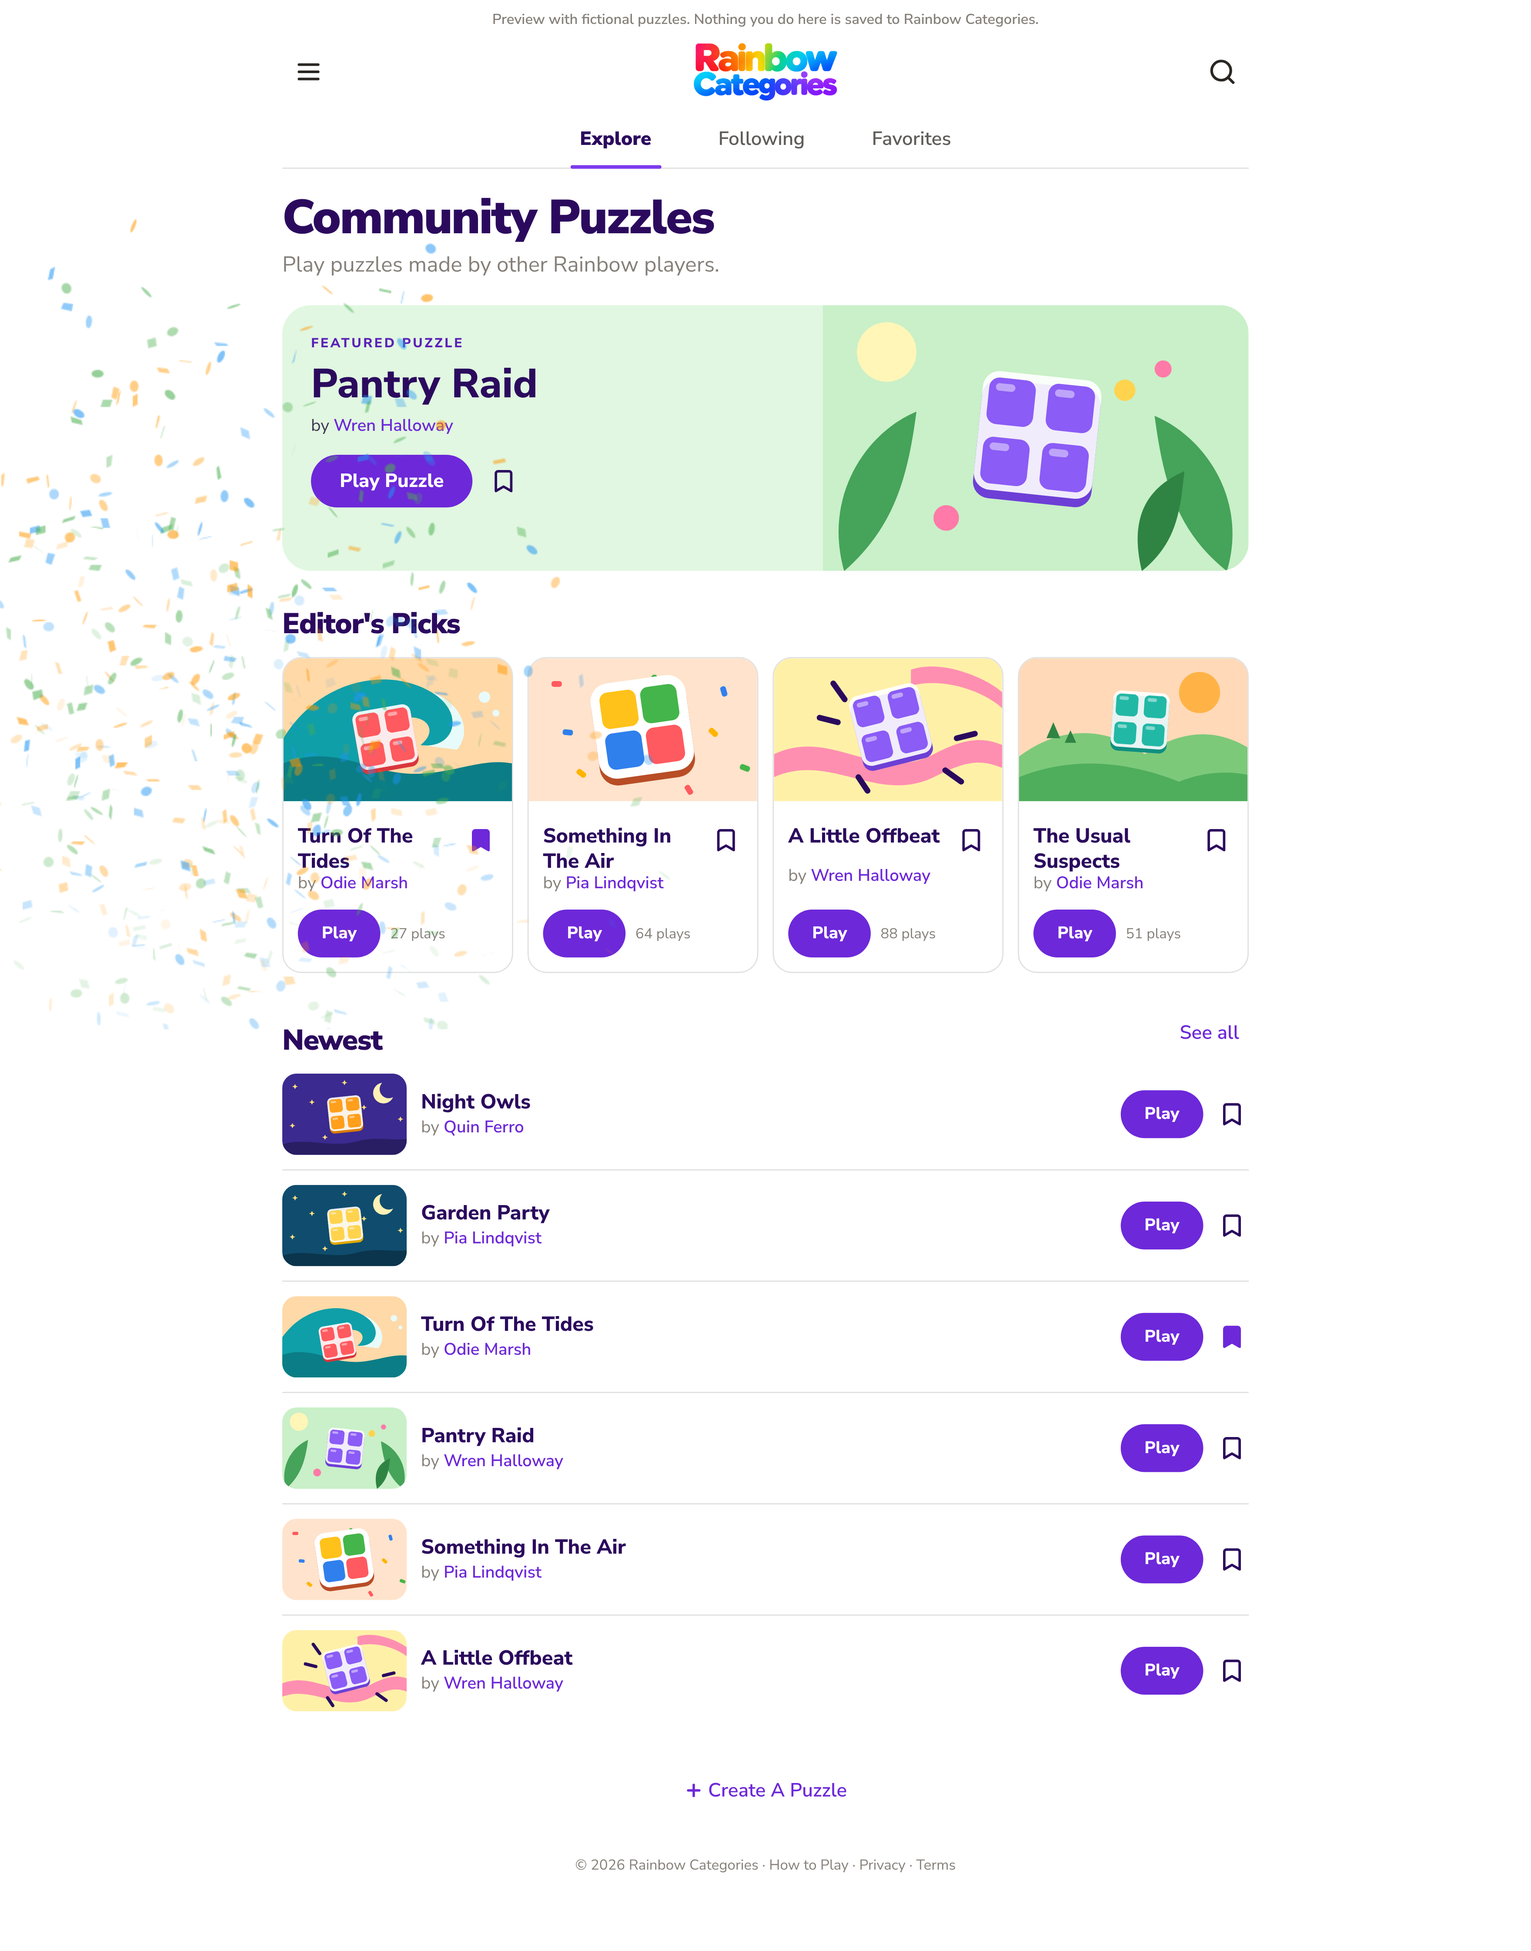
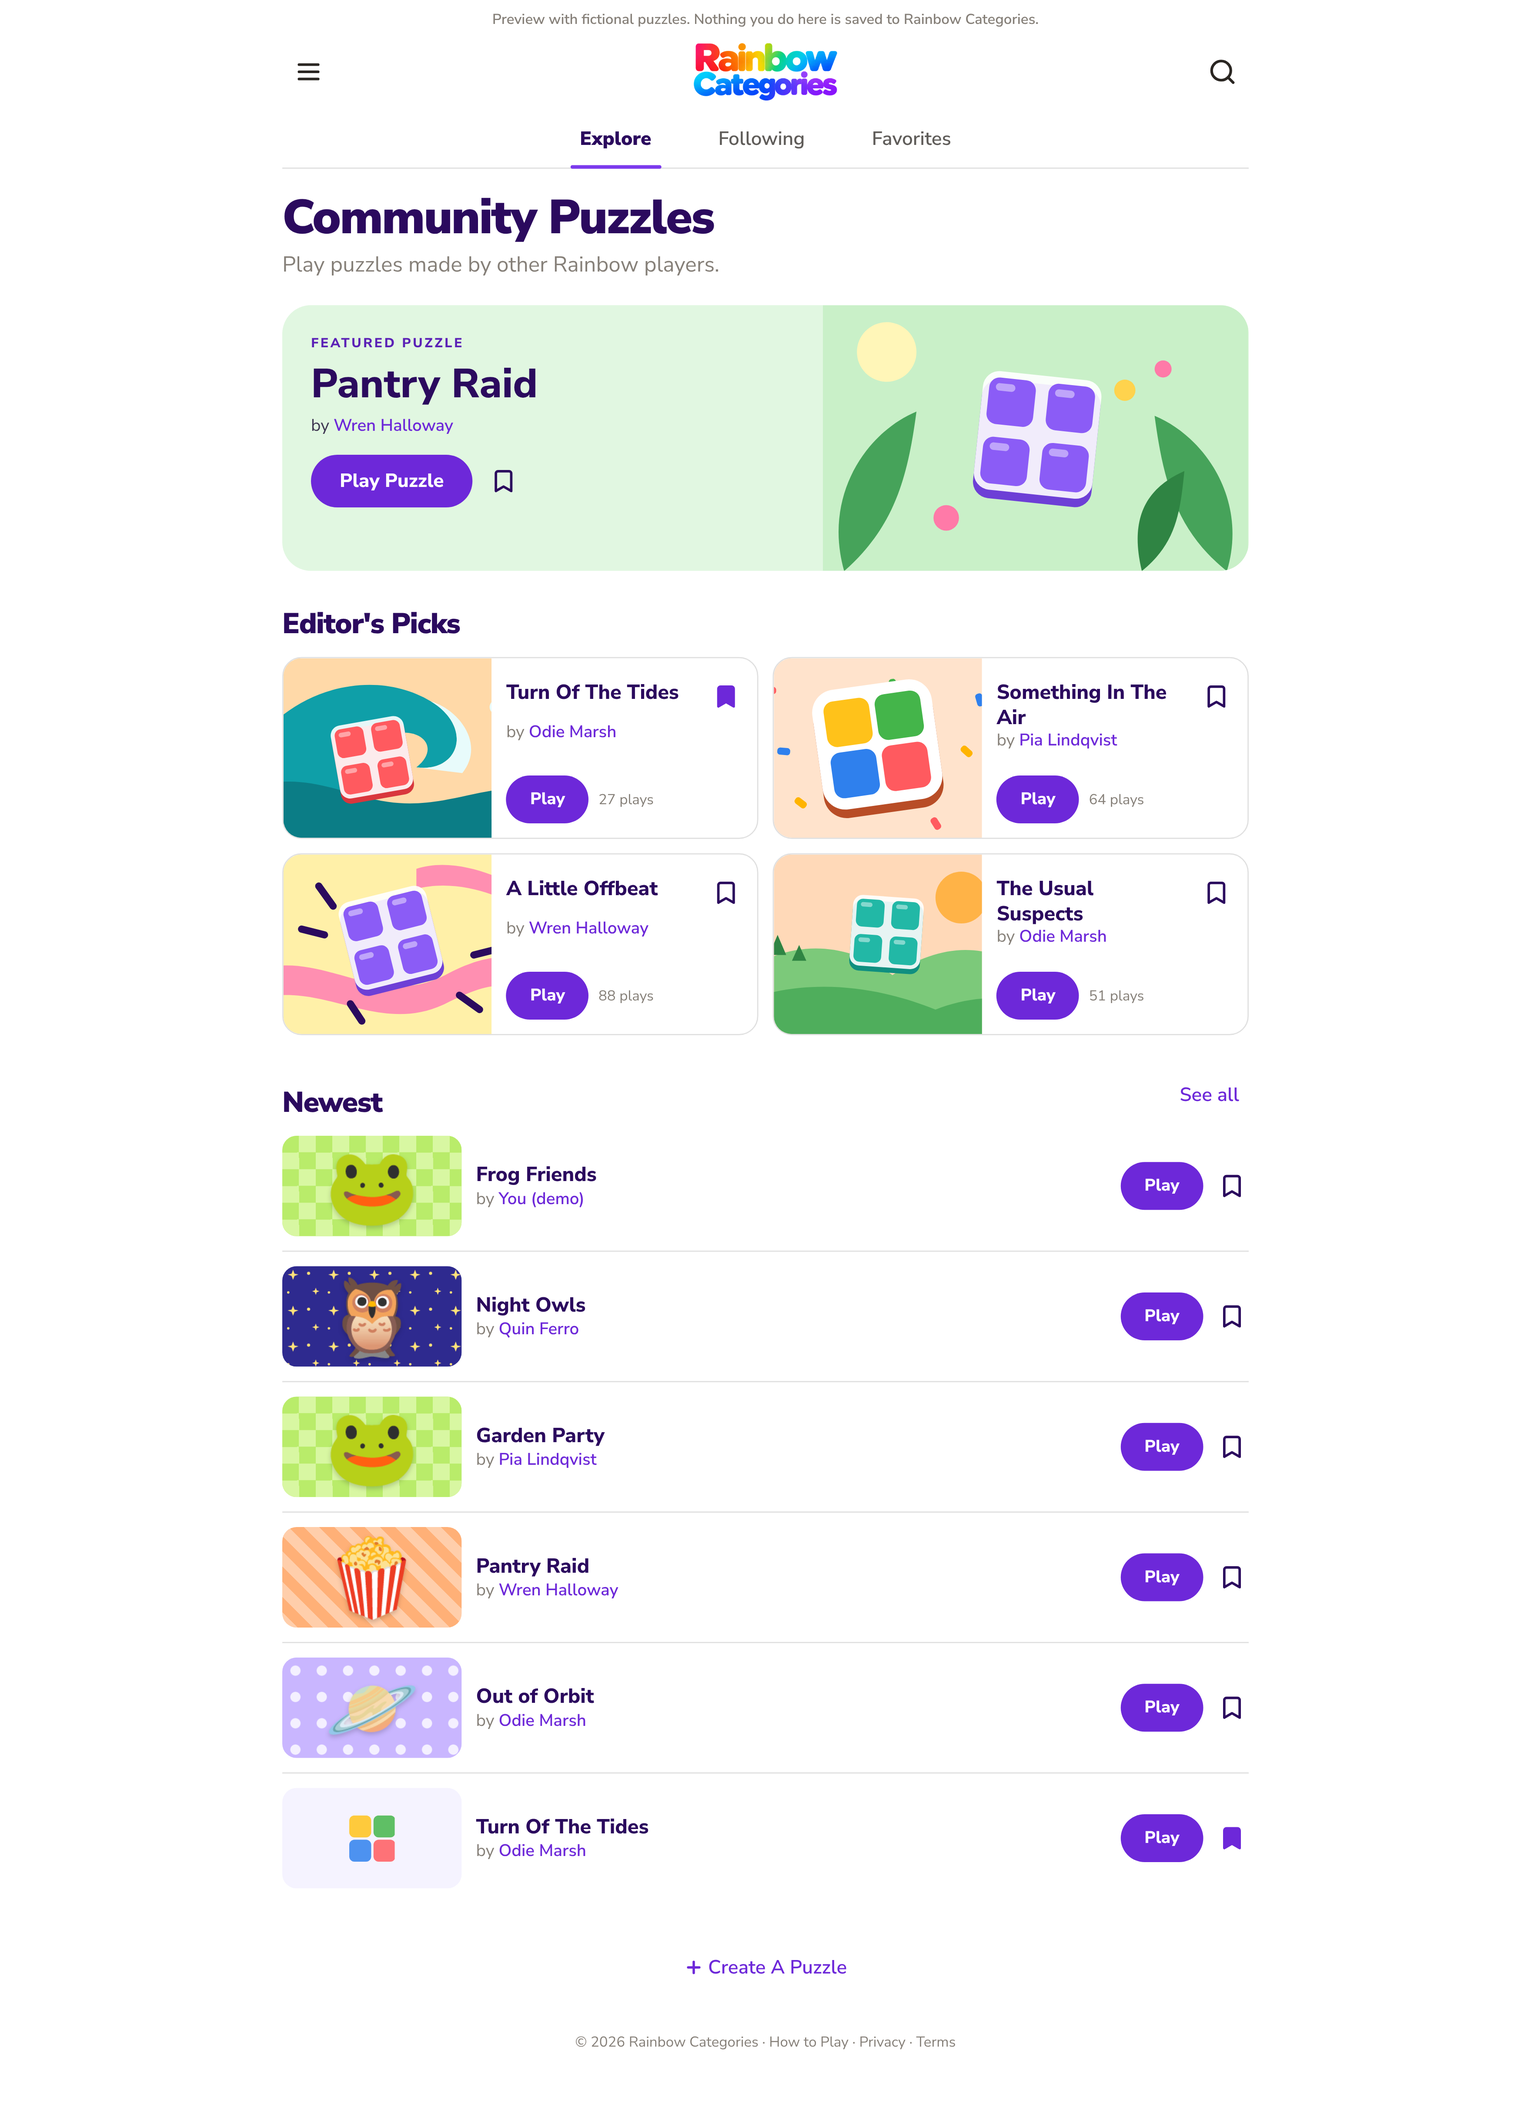
Showcase: emoji covers on Newest and a Make A Cover create demo (WIP)
Claude-Session: https://claude.ai/code/session_01PvbLbik3pLsdrdcnHnWh4C

diff --git a/e2e/showcase/showcase.spec.ts b/e2e/showcase/showcase.spec.ts
@@ -33,8 +33,13 @@ test("shelf to play: Featured, Picks and Newest, then a fictional puzzle played 
   await expect(page.getByTestId("featured-puzzle").getByTestId("card-title")).toHaveText("Pantry Raid");
   expect(await page.getByTestId("picks-grid").getByTestId("card-title").allInnerTexts()).toEqual(["Turn Of The Tides", "Something In The Air", "A Little Offbeat", "The Usual Suspects"]);
   // Newest is by listing time and includes puzzles that were never curated.
-  expect(await page.getByTestId("newest-list").getByTestId("card-title").allInnerTexts()).toEqual(["Night Owls", "Garden Party", "Turn Of The Tides", "Pantry Raid", "Something In The Air", "A Little Offbeat"]);
-  expect(await page.locator("main svg[data-cover]").count()).toBeGreaterThan(8);
+  expect(await page.getByTestId("newest-list").getByTestId("card-title").allInnerTexts()).toEqual(["Night Owls", "Garden Party", "Pantry Raid", "Out of Orbit", "Turn Of The Tides", "Something In The Air"]);
+  // Newest shows each puzzle's stored creator cover (one emoji, one background); Editor's Picks keep the illustrations.
+  const covers = await page.getByTestId("newest-list").locator("[data-cover-kind]").evaluateAll((els) => els.map((e) => [e.getAttribute("data-cover-kind"), e.getAttribute("data-cover-emoji"), e.getAttribute("data-cover-background")]));
+  expect(covers.slice(0, 4)).toEqual([["creator", "1F989", "indigo-stars"], ["creator", "1F438", "lime-checks"], ["creator", "1F37F", "apricot-stripes"], ["creator", "1FA90", "lilac-dots"]]);
+  expect(covers[4][0]).toBe("default");
+  expect(await page.getByTestId("picks-grid").locator("svg[data-cover]").count()).toBe(4);
+  expect(await page.getByTestId("picks-grid").locator("[data-cover-kind]").count()).toBe(0);
   await page.screenshot({ path: path.join(SHOTS, "showcase-phone-390-shelf.png"), fullPage: true, animations: "disabled" });
 
   // Save a pick (this browser only), then play the Featured Puzzle.
@@ -67,11 +72,50 @@ test("shelf to play: Featured, Picks and Newest, then a fictional puzzle played 
   await page.getByRole("navigation", { name: "Community sections" }).getByRole("link", { name: "Favorites" }).click();
   await expect(page.getByTestId("favorites-grid").getByTestId("card-title")).toHaveText(["Turn Of The Tides"]);
 
-  // Desktop width too.
-  await page.setViewportSize({ width: 1280, height: 860 });
+  // Create → pick a cover → publish (demo) → see the card.
   await page.getByRole("navigation", { name: "Community sections" }).getByRole("link", { name: "Explore" }).click();
   await expect(panel).toHaveAttribute("aria-busy", "false");
+  await page.getByRole("link", { name: "Create A Puzzle" }).click();
+  await expect(page.getByRole("heading", { name: "Make A Cover" })).toBeVisible();
+  await page.getByLabel("Puzzle title").fill("Frog Friends");
+  await expect(page.getByTestId("cover-emoji-grid").getByRole("option")).not.toHaveCount(0);
+  await page.getByRole("searchbox", { name: "Search emojis" }).fill("frog");
+  const frog = page.getByRole("option", { name: "frog", exact: true });
+  await frog.click();
+  await expect(frog).toHaveAttribute("aria-selected", "true");
+  await page.keyboard.press("ArrowRight"); // keyboard moves within the grid
+  await expect(page.getByTestId("cover-emoji-grid").locator(":focus")).toHaveCount(1);
+  await page.getByRole("radio", { name: "Lime checks" }).click();
+  await expect(page.getByTestId("cover-selection")).toHaveText("Frog on Lime checks");
+  const preview = page.getByTestId("cover-preview").locator("[data-cover-kind=creator]");
+  await expect(preview).toHaveAttribute("data-cover-emoji", "1F438");
+  await expect(preview).toHaveAttribute("data-cover-background", "lime-checks");
+  await page.getByTestId("cover-picker").scrollIntoViewIfNeeded();
+  await page.screenshot({ path: path.join(SHOTS, "showcase-phone-390-make-a-cover.png"), fullPage: true, animations: "disabled" });
+  await page.getByRole("button", { name: "Publish demo" }).click();
+  await expect(panel).toHaveAttribute("aria-busy", "false");
+  expect((await page.getByTestId("newest-list").getByTestId("card-title").allInnerTexts())[0]).toBe("Frog Friends");
+  const card = page.getByTestId("newest-list").getByTestId("community-card").first().locator("[data-cover-kind]");
+  await expect(card).toHaveAttribute("data-cover-emoji", "1F438");
+  await expect(card).toHaveAttribute("data-cover-background", "lime-checks");
+  await page.screenshot({ path: path.join(SHOTS, "showcase-phone-390-published.png"), fullPage: true, animations: "disabled" });
+  // The same stored cover on the puzzle's own page.
+  await page.getByTestId("newest-list").getByRole("link", { name: "Play Frog Friends" }).click();
+  await expect(page.getByRole("heading", { name: "Frog Friends" })).toBeVisible();
+  await expect(page.getByTestId("puzzle-cover").locator("[data-cover-kind]")).toHaveAttribute("data-cover-emoji", "1F438");
+  await expect(page.getByTestId("puzzle-cover").locator("[data-cover-kind]")).toHaveAttribute("data-cover-background", "lime-checks");
+
+  // Desktop width too.
+  await page.setViewportSize({ width: 1280, height: 860 });
+  await page.getByRole("button", { name: "Menu", exact: true }).click();
+  await page.getByRole("navigation", { name: "Main menu" }).getByRole("link", { name: "Community Puzzles" }).click();
+  await expect(panel).toHaveAttribute("aria-busy", "false");
   await page.screenshot({ path: path.join(SHOTS, "showcase-desktop-1280-shelf.png"), fullPage: true, animations: "disabled" });
+  await page.getByRole("link", { name: "Create A Puzzle" }).click();
+  await page.getByRole("searchbox", { name: "Search emojis" }).fill("owl");
+  await page.getByRole("option", { name: "owl", exact: true }).click();
+  await page.getByRole("radio", { name: "Indigo stars" }).click();
+  await page.screenshot({ path: path.join(SHOTS, "showcase-desktop-1280-make-a-cover.png"), fullPage: false, animations: "disabled" });
 
   expect(outside, "nothing may leave the browser").toEqual([]);
   expect(problems).toEqual([]);

diff --git a/src/showcase/fixtures.ts b/src/showcase/fixtures.ts
@@ -25,6 +25,8 @@ export interface ShowcasePuzzle {
   listedAt: string;
   plays: number;
   favorites: number;
+  /** The creator's cover keys (one emoji, one preset background), or none. */
+  cover?: { emoji: string; background: string };
 }
 
 const wren: ShowcaseCreator = { userId: "fixture-wren", slug: "wren-halloway-k4m2", name: "Wren Halloway", followers: 18 };
@@ -40,7 +42,7 @@ function interleave(groups: { words: string[] }[]): string[] {
   return out;
 }
 
-function puzzle(p: Omit<ShowcasePuzzle, "wordOrder" | "shareId">): ShowcasePuzzle {
+export function puzzle(p: Omit<ShowcasePuzzle, "wordOrder" | "shareId">): ShowcasePuzzle {
   return { ...p, shareId: `showcase${p.shortCode.toLowerCase()}000000000000000000`, wordOrder: interleave(p.groups) };
 }
 
@@ -53,7 +55,8 @@ export const PUZZLES: ShowcasePuzzle[] = [
       { category: "Baking Staples", words: ["FLOUR", "SALT", "SUGAR", "YEAST"] },
       { category: "Often Pickled", words: ["BEET", "CAPER", "GHERKIN", "OLIVE"] },
     ],
-    listedAt: "2026-11-18T10:00:00Z", plays: 42, favorites: 11,
+    listedAt: "2026-11-21T10:00:00Z", plays: 42, favorites: 11,
+    cover: { emoji: "1F37F", background: "apricot-stripes" },
   }),
   puzzle({
     key: "tides", title: "Turn Of The Tides", creator: odie, shortCode: "TidesTrn4x", mode: "classic",
@@ -63,7 +66,7 @@ export const PUZZLES: ShowcasePuzzle[] = [
       { category: "Beach Bag", words: ["BUCKET", "SPADE", "SUNHAT", "TOWEL"] },
       { category: "Moving Water", words: ["RIPPLE", "SURGE", "SWELL", "WAVE"] },
     ],
-    listedAt: "2026-11-20T09:30:00Z", plays: 27, favorites: 6,
+    listedAt: "2026-11-19T09:30:00Z", plays: 27, favorites: 6,
   }),
   puzzle({
     key: "air", title: "Something In The Air", creator: pia, shortCode: "AirSmthg8z", mode: "classic",
@@ -106,6 +109,7 @@ export const PUZZLES: ShowcasePuzzle[] = [
       { category: "Very Dark", words: ["EBONY", "INK", "JET", "ONYX"] },
     ],
     listedAt: "2026-11-24T19:00:00Z", plays: 3, favorites: 1,
+    cover: { emoji: "1F989", background: "indigo-stars" },
   }),
   puzzle({
     key: "garden", title: "Garden Party", creator: pia, shortCode: "GardenPt5r", mode: "classic",
@@ -116,7 +120,27 @@ export const PUZZLES: ShowcasePuzzle[] = [
       { category: "Lawn Games", words: ["BOULES", "CROQUET", "QUOITS", "SKITTLES"] },
     ],
     listedAt: "2026-11-22T14:00:00Z", plays: 0, favorites: 0,
+    cover: { emoji: "1F438", background: "lime-checks" },
   }),
+  puzzle({
+    key: "orbit", title: "Out of Orbit", creator: odie, shortCode: "OrbitOut7k", mode: "classic",
+    groups: [
+      { category: "Planets", words: ["JUPITER", "MARS", "SATURN", "VENUS"] },
+      { category: "Spacecraft", words: ["LANDER", "PROBE", "ROCKET", "SHUTTLE"] },
+      { category: "Constellations", words: ["CYGNUS", "DRACO", "LYRA", "ORION"] },
+      { category: "In Orbit", words: ["DEBRIS", "MOON", "SATELLITE", "STATION"] },
+    ],
+    listedAt: "2026-11-20T12:00:00Z", plays: 12, favorites: 4,
+    cover: { emoji: "1FA90", background: "lilac-dots" },
+  }),
+];
+
+/** The board every showcase demo puzzle uses (the real builder makes you write your own). */
+export const DEMO_GROUPS = [
+  { category: "Colors", words: ["BLUE", "GREEN", "PINK", "RED"] },
+  { category: "Fruit", words: ["APPLE", "KIWI", "PEAR", "PLUM"] },
+  { category: "Weather", words: ["FOG", "HAIL", "RAIN", "SNOW"] },
+  { category: "Shapes", words: ["CIRCLE", "OVAL", "SQUARE", "TRIANGLE"] },
 ];
 
 /** Human-chosen curation, as an admin would set it. */

diff --git a/src/showcase/ShowcaseCreate.tsx b/src/showcase/ShowcaseCreate.tsx
@@ -1,0 +1,52 @@
+import { useState } from "react";
+import { Link, useNavigate } from "react-router-dom";
+import { ChevronLeft } from "lucide-react";
+import { CommunityHeader } from "@/components/community/CommunityHeader";
+import { CoverPicker, NO_COVER, draftToCover, type CoverDraft } from "@/components/community/CoverPicker";
+import { cv } from "@/lib/communityStyle";
+import { useGamePageTheme } from "@/hooks/useGamePageTheme";
+import { publishDemoPuzzle } from "./fixtureClient";
+
+/**
+ * The showcase's stand-in for /create: name a fictional puzzle, make its cover
+ * with the real picker, "publish" it into this visit's Newest, and see the
+ * card. The real builder also asks for the four categories; this demo fills
+ * those in with a fixed fictional board so the cover step is the focus.
+ */
+export default function ShowcaseCreate() {
+  useGamePageTheme();
+  const navigate = useNavigate();
+  const [title, setTitle] = useState("My Demo Puzzle");
+  const [draft, setDraft] = useState<CoverDraft>(NO_COVER);
+  return (
+    <div className="min-h-screen bg-background pb-16">
+      <CommunityHeader user={null} />
+      <main className="mx-auto w-full max-w-xl px-4">
+        <Link to="/community" className={`mt-2 inline-flex h-11 items-center gap-1 rounded-full pr-3 text-sm font-extrabold ${cv.ink} ${cv.focus}`}>
+          <ChevronLeft aria-hidden="true" className="h-5 w-5" /> Explore
+        </Link>
+        <h1 className={`mt-1 text-[30px] font-black tracking-tight ${cv.ink}`}>Create a puzzle</h1>
+        <p className="text-sm text-muted-foreground">Demo: the real builder also has you write four categories. Here a fictional board is filled in so you can try the cover.</p>
+        <label htmlFor="demo-title" className={`mt-4 block text-sm font-extrabold ${cv.ink}`}>Puzzle title</label>
+        <input
+          id="demo-title"
+          value={title}
+          maxLength={100}
+          onChange={(e) => setTitle(e.target.value)}
+          className={`mt-1 h-11 w-full rounded-xl border border-input bg-card px-3 text-base text-foreground ${cv.focus}`}
+        />
+        <div className="mt-4">
+          <CoverPicker value={draft} onChange={setDraft} title={title} creatorName="You (demo)" />
+        </div>
+        <button
+          type="button"
+          onClick={() => { publishDemoPuzzle(title, draftToCover(draft)); navigate("/community"); }}
+          className={`mt-4 inline-flex h-12 w-full items-center justify-center rounded-full text-base font-extrabold ${cv.play} ${cv.focus}`}
+        >
+          Publish demo
+        </button>
+        <p className="mt-2 text-center text-xs text-muted-foreground">Nothing is saved. It appears in this visit's Newest only.</p>
+      </main>
+    </div>
+  );
+}

diff --git a/src/showcase/fixtureClient.ts b/src/showcase/fixtureClient.ts
@@ -8,7 +8,7 @@
  * Plays and saves last for the visit (saves use the app's normal per-browser
  * storage, as a real guest's do).
  */
-import { CREATORS, CURATION, PUZZLES, type ShowcasePuzzle } from "./fixtures";
+import { CREATORS, CURATION, DEMO_GROUPS, PUZZLES, puzzle, type ShowcasePuzzle } from "./fixtures";
 
 type Result = { data: unknown; error: { message: string; code?: string } | null };
 const ok = (data: unknown): Result => ({ data, error: null });
@@ -34,6 +34,8 @@ function card(p: ShowcasePuzzle) {
     finished_plays: plays.get(p.key) ?? 0,
     favorite_count: p.favorites,
     listed_at: p.listedAt,
+    cover_emoji: p.cover?.emoji ?? null,
+    cover_background: p.cover?.background ?? null,
   };
 }
 
@@ -62,6 +64,8 @@ function full(p: ShowcasePuzzle) {
     creator_slug: p.creator.slug,
     favorite_count: p.favorites,
     favorited_by_me: false,
+    cover_emoji: p.cover?.emoji ?? null,
+    cover_background: p.cover?.background ?? null,
   };
 }
 
@@ -177,6 +181,25 @@ function rpc(name: string, a: Record<string, unknown> = {}): Result {
     default:
       return unavailable(name);
   }
+}
+
+/**
+ * The showcase's "publish": adds a fictional puzzle by a fictional creator to
+ * this visit's Newest, with the cover the visitor picked. Nothing is stored.
+ */
+let demoCount = 0;
+export function publishDemoPuzzle(title: string, cover: { emoji: string; background: string } | null): string {
+  demoCount++;
+  const code = `DemoPuz${String(demoCount).padStart(3, "0")}`;
+  const you = { userId: "fixture-you", slug: "you-demo-a1b2", name: "You (demo)", followers: 0 };
+  if (!CREATORS.some((c) => c.slug === you.slug)) CREATORS.push(you);
+  PUZZLES.push(puzzle({
+    key: `demo${demoCount}`, title: title.trim().slice(0, 100) || "My Demo Puzzle", creator: CREATORS.find((c) => c.slug === you.slug)!,
+    shortCode: code, mode: "classic", groups: DEMO_GROUPS, listedAt: new Date().toISOString(), plays: 0, favorites: 0,
+    ...(cover ? { cover } : {}),
+  }));
+  plays.set(`demo${demoCount}`, 0);
+  return code;
 }
 
 /** A thenable query builder that answers every table read with no rows. */

diff --git a/src/showcase/main.tsx b/src/showcase/main.tsx
@@ -13,6 +13,7 @@ import { TooltipProvider } from "@/components/ui/tooltip";
 import CommunityPage from "@/pages/Community";
 import CustomPuzzle from "@/pages/CustomPuzzle";
 import CreatorProfilePage from "@/pages/CreatorProfile";
+import ShowcaseCreate from "./ShowcaseCreate";
 import { cv } from "@/lib/communityStyle";
 import "@/index.css";
 
@@ -52,6 +53,7 @@ const routes: RouteObject[] = [
   { path: "/p/:shortCode", element: <><PreviewNote /><CustomPuzzle /></> },
   { path: "/custom/:shareId", element: <><PreviewNote /><CustomPuzzle /></> },
   { path: "/creator/:publicSlug", element: <><PreviewNote /><CreatorProfilePage /></> },
+  { path: "/create", element: <><PreviewNote /><ShowcaseCreate /></> },
   { path: "*", element: <NotInShowcase /> },
 ];
 
